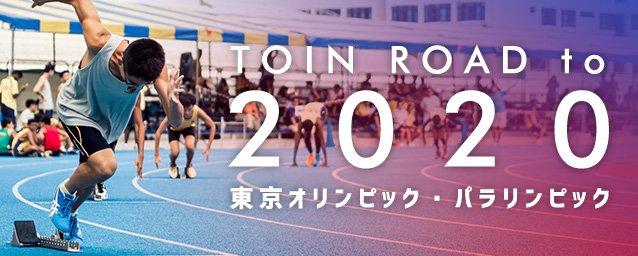
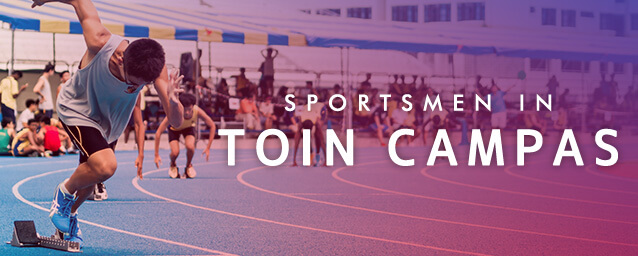
名前の変更

diff --git a/dist/styles.a3b74baf.js b/dist/styles.a3b74baf.js
@@ -77,7 +77,7 @@ parcelRequire = (function (modules, cache, entry) {
 
   // Override the current require with this new one
   return newRequire;
-})({71:[function(require,module,exports) {
+})({73:[function(require,module,exports) {
 var bundleURL = null;
 function getBundleURLCached() {
   if (!bundleURL) {
@@ -107,7 +107,7 @@ function getBaseURL(url) {
 
 exports.getBundleURL = getBundleURLCached;
 exports.getBaseURL = getBaseURL;
-},{}],51:[function(require,module,exports) {
+},{}],49:[function(require,module,exports) {
 var bundle = require('./bundle-url');
 
 function updateLink(link) {
@@ -138,49 +138,49 @@ function reloadCSS() {
 }
 
 module.exports = reloadCSS;
-},{"./bundle-url":71}],53:[function(require,module,exports) {
+},{"./bundle-url":73}],50:[function(require,module,exports) {
 
         var reloadCSS = require('_css_loader');
         module.hot.dispose(reloadCSS);
         module.hot.accept(reloadCSS);
       
-},{"_css_loader":51}],54:[function(require,module,exports) {
+},{"_css_loader":49}],51:[function(require,module,exports) {
 
         var reloadCSS = require('_css_loader');
         module.hot.dispose(reloadCSS);
         module.hot.accept(reloadCSS);
       
-},{"_css_loader":51}],60:[function(require,module,exports) {
+},{"_css_loader":49}],57:[function(require,module,exports) {
 
         var reloadCSS = require('_css_loader');
         module.hot.dispose(reloadCSS);
         module.hot.accept(reloadCSS);
       
-},{"_css_loader":51}],61:[function(require,module,exports) {
+},{"_css_loader":49}],58:[function(require,module,exports) {
 
         var reloadCSS = require('_css_loader');
         module.hot.dispose(reloadCSS);
         module.hot.accept(reloadCSS);
       
-},{"./../../images/ajax-loader.gif":66,"./../../js/lib/slick/fonts/slick.eot":67,"./../../js/lib/slick/fonts/slick.woff":68,"./../../js/lib/slick/fonts/slick.ttf":69,"./../../js/lib/slick/fonts/slick.svg":70,"_css_loader":51}],55:[function(require,module,exports) {
+},{"./../../images/ajax-loader.gif":61,"./../../js/lib/slick/fonts/slick.eot":62,"./../../js/lib/slick/fonts/slick.woff":63,"./../../js/lib/slick/fonts/slick.ttf":64,"./../../js/lib/slick/fonts/slick.svg":65,"_css_loader":49}],53:[function(require,module,exports) {
 
         var reloadCSS = require('_css_loader');
         module.hot.dispose(reloadCSS);
         module.hot.accept(reloadCSS);
       
-},{"_css_loader":51}],56:[function(require,module,exports) {
+},{"_css_loader":49}],54:[function(require,module,exports) {
 
         var reloadCSS = require('_css_loader');
         module.hot.dispose(reloadCSS);
         module.hot.accept(reloadCSS);
       
-},{"_css_loader":51}],3:[function(require,module,exports) {
+},{"_css_loader":49}],24:[function(require,module,exports) {
 
         var reloadCSS = require('_css_loader');
         module.hot.dispose(reloadCSS);
         module.hot.accept(reloadCSS);
       
-},{"./reset.css":53,"./variables.css":54,"./lib/slick.css":60,"./lib/slick-theme.css":61,"./slider.css":55,"./fakeLoader.css":56,"./../images/arrow2.png":57,"./../images/arrow.png":58,"./../images/slide1.jpg":13,"./../images/slide2.jpg":14,"./../images/slide1.png":59,"_css_loader":51}],111:[function(require,module,exports) {
+},{"./reset.css":50,"./variables.css":51,"./lib/slick.css":57,"./lib/slick-theme.css":58,"./slider.css":53,"./fakeLoader.css":54,"./../images/arrow2.png":52,"./../images/arrow.png":55,"./../images/slide1.jpg":34,"./../images/slide2.jpg":36,"./../images/slide1.png":56,"_css_loader":49}],76:[function(require,module,exports) {
 
 var OVERLAY_ID = '__parcel__error__overlay__';
 
@@ -210,7 +210,7 @@ var parent = module.bundle.parent;
 if ((!parent || !parent.isParcelRequire) && typeof WebSocket !== 'undefined') {
   var hostname = '' || location.hostname;
   var protocol = location.protocol === 'https:' ? 'wss' : 'ws';
-  var ws = new WebSocket(protocol + '://' + hostname + ':' + '55083' + '/');
+  var ws = new WebSocket(protocol + '://' + hostname + ':' + '60447' + '/');
   ws.onmessage = function (event) {
     var data = JSON.parse(event.data);
 
@@ -349,7 +349,7 @@ function hmrAccept(bundle, id) {
     return hmrAccept(global.parcelRequire, id);
   });
 }
-},{}],112:[function(require,module,exports) {
+},{}],77:[function(require,module,exports) {
 var getBundleURL = require('./bundle-url').getBundleURL;
 
 function loadBundlesLazy(bundles) {
@@ -430,7 +430,7 @@ LazyPromise.prototype.catch = function (onError) {
   if (this.promise === null) this.promise = new Promise(this.executor);
   return this.promise.catch(onError);
 };
-},{"./bundle-url":71}],0:[function(require,module,exports) {
-var b=require(112);b.load([["ajax-loader.5951cde3.gif",66],["slick.29d4c64f.eot",67],["slick.526dd301.woff",68],["slick.efb232c4.ttf",69],["slick.fcb6734e.svg",70],["arrow2.e54e5543.png",57],["arrow.2b8fda1f.png",58],["slide1.5ec8952e.jpg",13],["slide2.ff5d5d0e.jpg",14],["slide1.66ad2b13.png",59]]);
-},{}]},{},[111,0])
+},{"./bundle-url":73}],0:[function(require,module,exports) {
+var b=require(77);b.load([["ajax-loader.5951cde3.gif",61],["slick.29d4c64f.eot",62],["slick.526dd301.woff",63],["slick.efb232c4.ttf",64],["slick.fcb6734e.svg",65],["arrow2.e54e5543.png",52],["arrow.2b8fda1f.png",55],["slide1.5ec8952e.jpg",34],["slide2.ff5d5d0e.jpg",36],["slide1.66ad2b13.png",56]]);
+},{}]},{},[76,0])
 //# sourceMappingURL=/styles.a3b74baf.map

diff --git a/dist/app.b6bd5372.js b/dist/app.b6bd5372.js
@@ -77,7 +77,7 @@ parcelRequire = (function (modules, cache, entry) {
 
   // Override the current require with this new one
   return newRequire;
-})({63:[function(require,module,exports) {
+})({66:[function(require,module,exports) {
 'use strict';
 
 Object.defineProperty(exports, "__esModule", {
@@ -41346,7 +41346,7 @@ exports.Projector = Projector;
 exports.CanvasRenderer = CanvasRenderer;
 exports.SceneUtils = SceneUtils;
 exports.LensFlare = LensFlare;
-},{}],72:[function(require,module,exports) {
+},{}],74:[function(require,module,exports) {
 // Copyright (c) 2017 Adobe Systems Incorporated. All rights reserved.
 //
 // Licensed under the Apache License, Version 2.0 (the "License");
@@ -41783,7 +41783,7 @@ exports.LensFlare = LensFlare;
     typeof module != "undefined" && module.exports ? module.exports = eve : typeof define === "function" && define.amd ? define("eve", [], function () { return eve; }) : glob.eve = eve;
 })(typeof window != "undefined" ? window : this);
 
-},{}],64:[function(require,module,exports) {
+},{}],68:[function(require,module,exports) {
 var global = (1,eval)("this");
 // Snap.svg 0.5.0
 //
@@ -50415,7 +50415,7 @@ Snap.plugin(function (Snap, Element, Paper, glob) {
 
 return Snap;
 }));
-},{"eve":72}],62:[function(require,module,exports) {
+},{"eve":74}],67:[function(require,module,exports) {
 /*--------------------------------------------------------------------
  *JAVASCRIPT "FakeLoader.js"
  *Version:    1.1.0 - 2014
@@ -50544,7 +50544,7 @@ return Snap;
 
 
 }(jQuery));
-},{}],5:[function(require,module,exports) {
+},{}],25:[function(require,module,exports) {
 'use strict';
 
 var _three = require('three');
@@ -50978,7 +50978,7 @@ $(function () {
  animate(time => simulation.render(time));
  */
 }); /* import file */
-},{"three":63,"snapsvg":64,"fakeloader":62}],74:[function(require,module,exports) {
+},{"three":66,"snapsvg":68,"fakeloader":67}],76:[function(require,module,exports) {
 
 var OVERLAY_ID = '__parcel__error__overlay__';
 
@@ -51008,7 +51008,7 @@ var parent = module.bundle.parent;
 if ((!parent || !parent.isParcelRequire) && typeof WebSocket !== 'undefined') {
   var hostname = '' || location.hostname;
   var protocol = location.protocol === 'https:' ? 'wss' : 'ws';
-  var ws = new WebSocket(protocol + '://' + hostname + ':' + '55083' + '/');
+  var ws = new WebSocket(protocol + '://' + hostname + ':' + '60447' + '/');
   ws.onmessage = function (event) {
     var data = JSON.parse(event.data);
 
@@ -51147,5 +51147,5 @@ function hmrAccept(bundle, id) {
     return hmrAccept(global.parcelRequire, id);
   });
 }
-},{}]},{},[74,5])
+},{}]},{},[76,25])
 //# sourceMappingURL=/app.b6bd5372.map

diff --git a/dist/index.html b/dist/index.html
@@ -5,7 +5,7 @@
     <title>MIYAZU DAIZO</title>
     <!--meta-->
     <meta name="description" content="桐蔭横浜大学スポーツ公立小学校の特別支援学級担任を皮切りに、国公立小学校教諭として２７年間勤める。その後、桐蔭横浜大学准教授を経て現職。小学校国語科教科書の執筆、編集。教育書、児童書などの執筆を行っていたが、２０１４年「ヅカメン！　お父ちゃん達の宝塚」（廣済堂出版）で一般書も書き始める。健康政策学部教授">
-    <meta name="keywords" content="桐蔭横浜大学,宮津 大蔵,パラリンピック,ヅカメン,宝塚,国公立小学校教諭">
+    <meta name="keywords" content="桐蔭横浜大学,宮津大蔵,大蔵,宮津,パラリンピック,ヅカメン,宝塚,国公立小学校教諭">
     <meta name="format-detection" content="telephone=no">
     <meta name="viewport" content="width=device-width, initial-scale=1.0, maximum-scale=1.0, user-scalable=0, shrink-to-fit=no">
     <link rel="shortcut icon" href="/favicon.743ed7f3.png">
@@ -73,8 +73,8 @@
               </clipPath>
             </defs>
             <div class="slider__info">
-              <p class="slider__title text"><span class="text__first"><span class="text__word">TOIN ROAD to 2020</span><span class="text__first-bg" style="background-color: #000"></span></span></p>
-              <p class="slider__desc text"><span class="text__second"><span class="text__word">東京オリンンピック・パラリンピック</span><span class="text__second-bg" style="background-color: #999"></span></span></p>
+              <p class="slider__title text"><span class="text__first"><span class="text__word">SPORTSMEN IN</span><span class="text__first-bg" style="background-color: #000"></span></span></p>
+              <p class="slider__desc text"><span class="text__second"><span class="text__word">TOIN CAMPAS</span><span class="text__second-bg" style="background-color: #999"></span></span></p>
             </div><a class="slide_link" href="https://www.amazon.co.jp/dp/B00O9LVRUI/ref=dp-kindle-redirect?_encoding=UTF8&amp;btkr=1" target="/blank"></a><img src="/slide1.5ec8952e.jpg" clip-path="url(#image-1)">
           </svg>
         </div>

diff --git a/dist/slick.min.d4860123.js b/dist/slick.min.d4860123.js
@@ -77,7 +77,7 @@ parcelRequire = (function (modules, cache, entry) {
 
   // Override the current require with this new one
   return newRequire;
-})({73:[function(require,module,exports) {
+})({75:[function(require,module,exports) {
 
 // shim for using process in browser
 var process = module.exports = {};
@@ -264,7 +264,7 @@ process.chdir = function (dir) {
 process.umask = function () {
     return 0;
 };
-},{}],65:[function(require,module,exports) {
+},{}],72:[function(require,module,exports) {
 var global = (1,eval)("this");
 var process = require("process");
 /*!
@@ -10632,7 +10632,7 @@ if ( !noGlobal ) {
 return jQuery;
 } );
 
-},{"process":73}],19:[function(require,module,exports) {
+},{"process":75}],40:[function(require,module,exports) {
 var _typeof = typeof Symbol === "function" && typeof Symbol.iterator === "symbol" ? function (obj) { return typeof obj; } : function (obj) { return obj && typeof Symbol === "function" && obj.constructor === Symbol && obj !== Symbol.prototype ? "symbol" : typeof obj; };
 
 /*
@@ -11083,7 +11083,7 @@ var _typeof = typeof Symbol === "function" && typeof Symbol.iterator === "symbol
     }return o;
   };
 });
-},{"jquery":65}],74:[function(require,module,exports) {
+},{"jquery":72}],76:[function(require,module,exports) {
 
 var OVERLAY_ID = '__parcel__error__overlay__';
 
@@ -11113,7 +11113,7 @@ var parent = module.bundle.parent;
 if ((!parent || !parent.isParcelRequire) && typeof WebSocket !== 'undefined') {
   var hostname = '' || location.hostname;
   var protocol = location.protocol === 'https:' ? 'wss' : 'ws';
-  var ws = new WebSocket(protocol + '://' + hostname + ':' + '55083' + '/');
+  var ws = new WebSocket(protocol + '://' + hostname + ':' + '60447' + '/');
   ws.onmessage = function (event) {
     var data = JSON.parse(event.data);
 
@@ -11252,5 +11252,5 @@ function hmrAccept(bundle, id) {
     return hmrAccept(global.parcelRequire, id);
   });
 }
-},{}]},{},[74,19])
+},{}]},{},[76,40])
 //# sourceMappingURL=/slick.min.d4860123.map

diff --git a/dist/fakeLoader.min.821c0fec.js b/dist/fakeLoader.min.821c0fec.js
@@ -77,7 +77,7 @@ parcelRequire = (function (modules, cache, entry) {
 
   // Override the current require with this new one
   return newRequire;
-})({4:[function(require,module,exports) {
+})({26:[function(require,module,exports) {
 !function (i) {
   function s() {
     var s = i(window).width(),
@@ -113,7 +113,7 @@ parcelRequire = (function (modules, cache, entry) {
     });
   });
 }(jQuery);
-},{}],74:[function(require,module,exports) {
+},{}],76:[function(require,module,exports) {
 
 var OVERLAY_ID = '__parcel__error__overlay__';
 
@@ -143,7 +143,7 @@ var parent = module.bundle.parent;
 if ((!parent || !parent.isParcelRequire) && typeof WebSocket !== 'undefined') {
   var hostname = '' || location.hostname;
   var protocol = location.protocol === 'https:' ? 'wss' : 'ws';
-  var ws = new WebSocket(protocol + '://' + hostname + ':' + '55083' + '/');
+  var ws = new WebSocket(protocol + '://' + hostname + ':' + '60447' + '/');
   ws.onmessage = function (event) {
     var data = JSON.parse(event.data);
 
@@ -282,5 +282,5 @@ function hmrAccept(bundle, id) {
     return hmrAccept(global.parcelRequire, id);
   });
 }
-},{}]},{},[74,4])
+},{}]},{},[76,26])
 //# sourceMappingURL=/fakeLoader.min.821c0fec.map
